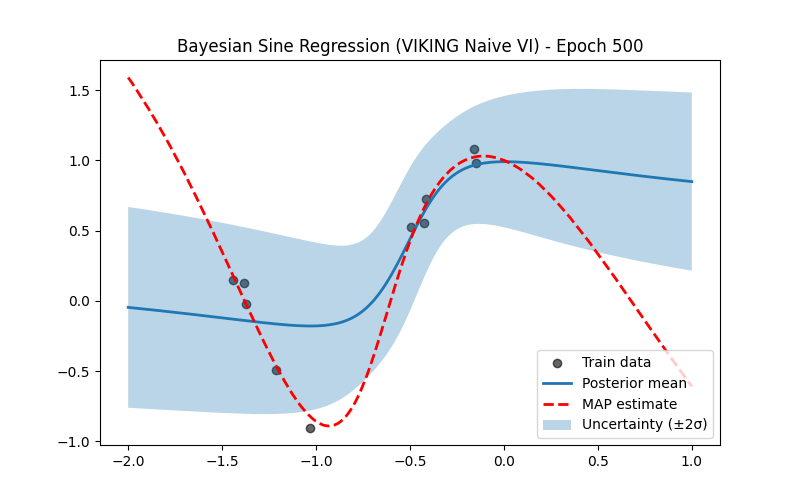
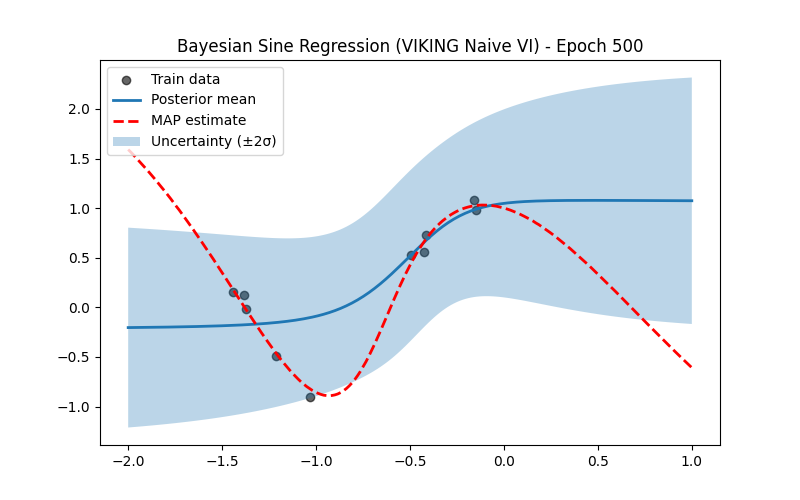
fast JIT version now works

diff --git a/experiments/VIKING_sine_curve_GGN.py b/experiments/VIKING_sine_curve_GGN.py
@@ -184,16 +184,17 @@ def main():
         (loss, (rec_term, kl)), grads = grad_fn(params_opt, UUt, x_train, y_train, subkey, prior_vec, rank_ker)
         updates, opt_state = optimizer.update(grads, opt_state)
         params_opt = optax.apply_updates(params_opt, updates)
-        return loss, params_opt, opt_state, rec_term, kl
+        return loss, params_opt, opt_state, rec_term, kl, UUt
 
     for epoch in range(num_epochs):
         training_key, subkey = jax.random.split(training_key)
-        loss, params_opt_current, opt_state_current, rec_term, kl = train_step(params_opt_current, opt_state_current, subkey)
+        loss, params_opt_current, opt_state_current, rec_term, kl, UUt = train_step(params_opt_current, opt_state_current, subkey)
 
         if epoch % log_every == 0 or epoch == num_epochs - 1:
+            print("------------------------------------------------------------")
             print(f"[Epoch {epoch}] Loss (-ELBO): {loss:.4f}")
             print(f"Rec term = {rec_term:.4f} ||| KL Term = {kl:.4f}")
-            print(f"Sigma kernel: {jnp.exp(params_opt_current['sigma_ker']):.4f}, Sigma image: {jnp.exp(params_opt_current['sigma_im']):.4f}, Alpha: {(1.0/ (jnp.exp(params_opt_current['sigma_ker']) ** 2)):.2f}")
+            print(f"Sigma kernel: {jnp.exp(params_opt_current['sigma_ker']):.4f}, Sigma image: {jnp.exp(params_opt_current['sigma_im']):.4f}")
         
         if epoch in plot_epochs:
             predict_and_plot_bayesian_mean_for_epoch(post_key, model_fn_vec, params_opt_current, UUt, y_map, x_train, y_train, epoch)

diff --git a/src/sampling.py b/src/sampling.py
@@ -46,17 +46,22 @@ def calculate_UUt_svd(model_fn, params_vec, x_train, y_train, tol=1e-2):
     D = J.shape[1]
 
     # Full SVD (J = U Σ V^T)
-    U, S, VT = jnp.linalg.svd(J, full_matrices=False)  # VT: (D, D)
+    U, S, VT = jnp.linalg.svd(J, full_matrices=True)  # VT: (D, D), S: (min(N, D),)
 
-    # Determine rank (non-negligible singular values)
-    null_mask = S <= tol
+    # Pad singular values up to D (if N < D)
+    S_full = jnp.pad(S, (0, D - S.shape[0]), constant_values=0.0)
+
+    # Identify "nullspace" dimensions (dynamic mask)
+    null_mask = S_full <= tol  # shape (D,)
     rank_ker = jnp.sum(null_mask)
 
-    # Right-singular vectors corresponding to nullspace
-    V_null = VT[null_mask].T  # shape (D, rank_ker)
+    # Build a diagonal mask (float) instead of boolean indexing
+    diag_mask = null_mask.astype(J.dtype)  # (D,)
 
-    # Projection onto kernel subspace
-    UUt = V_null @ V_null.T
+    # Projection: UUt = V diag(mask) V^T
+    V = VT.T  # (D, D)
+    UUt = V @ (diag_mask * V.T)  # broadcasting applies mask to rows/cols
+
     return UUt, rank_ker
 
 def sample_theta(key, num_samples, UUt, theta_hat, sigma_ker, sigma_im):
